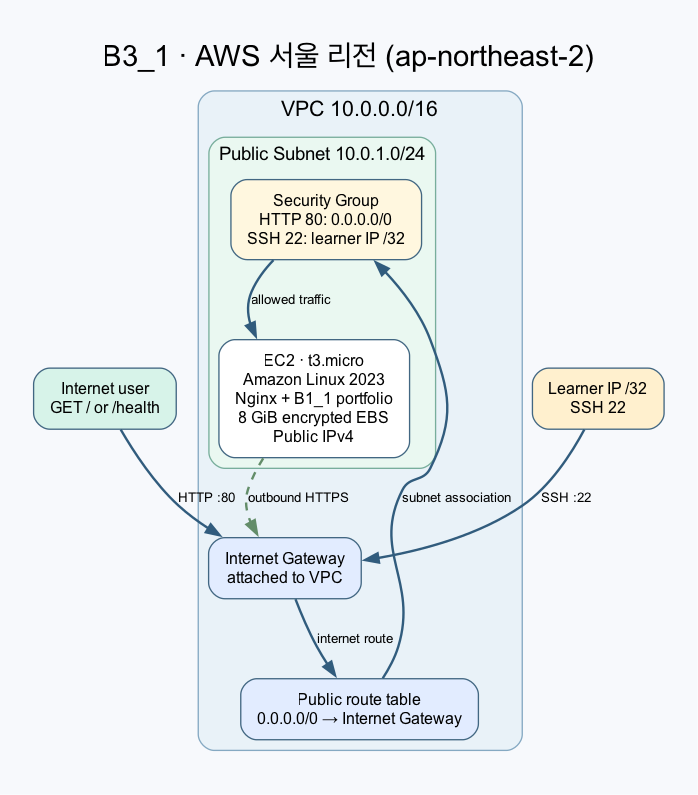
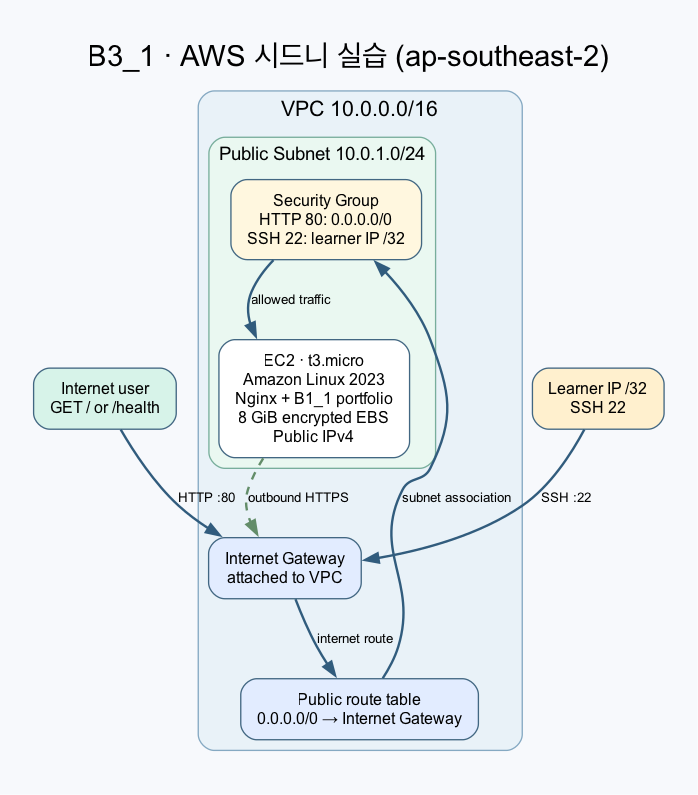
feat: deploy and verify B3_1 in Sydney with cleanup evidence

Changed region(s): [[0.1203, 0.0302, 0.8725, 0.0906]]

diff --git a/B3_1/docs/iam-plan.md b/B3_1/docs/iam-plan.md
@@ -1,25 +1,25 @@
-# B3_1 IAM 최소 권한 적용 계획
+# B3_1 IAM 권한 적용과 실습 기록
 
-**현재 상태:** AWS CLI 임시 인증은 완료했습니다. 현재 세션은 계정 기본 `AccountFullAccessRole`이지만, 서울 리전 API가 AWS 조직 정책(SCP)에 의해 거부되어 실습용 IAM Role은 생성하지 않았습니다. 신뢰·권한 정책은 `infrastructure/iam/`에 준비했고, 실제 적용과 권한 검증은 남아 있습니다. 배포 전 검사도 이 제한을 발견하면 중단하도록 했습니다.
+**2026-10-21 시드니 실습:** 계정 기본 `AccountFullAccessRole`로 전용 역할 두 개를 생성하고 EC2 키페어를 준비했습니다. 실제 CloudFormation 배포·검증·스택 삭제는 **`B3_1OperatorRole`**의 임시 세션으로 실행했습니다. 루트 계정을 사용하지 않았고 실습 역할에는 `AdministratorAccess`를 연결하지 않았습니다. 실습 종료 후 전용 역할 두 개와 키페어를 삭제했습니다.
 
 ## 역할 분리
 
-1. **실습자 접근 주체:** IAM Identity Center 사용자 또는 전용 IAM 사용자 `b3-lab-user`. 루트 계정으로 실습하지 않습니다. `AdministratorAccess`를 연결하지 않습니다.
-2. **CloudFormation 실행 역할:** `B3_1CloudFormationRole`. 신뢰 정책의 Principal은 `cloudformation.amazonaws.com`만 허용합니다. 역할 권한은 이 템플릿에 있는 EC2/VPC 작업과 서울 리전으로 제한합니다. 정책 파일은 `infrastructure/iam/cloudformation-*.json`이며 관리자가 `scripts/bootstrap-iam.sh`로 적용할 수 있습니다.
-3. **실습자 권한:** `b3-1` 스택의 CloudFormation 생성·조회·업데이트·삭제, 해당 실행 역할에 대한 `iam:PassRole`, EC2/VPC 구성 조회에 필요한 권한만 허용합니다. S3·RDS·Lambda와 같은 실습 외 서비스 권한은 부여하지 않습니다. 키페어 생성은 별도 관리자가 수행합니다.
+1. **계정 기본 접근 역할:** `AccountFullAccessRole`은 실습 역할과 SSH 키를 준비할 때만 사용했습니다. CloudFormation 배포 명령에는 사용하지 않았습니다.
+2. **실습 작업 역할:** `B3_1OperatorRole`은 `scripts/bootstrap-operator.sh`가 생성합니다. 시드니 리전의 CloudFormation 배포·조회·삭제, EC2/VPC 조회, 특정 `B3_1CloudFormationRole`을 CloudFormation에 전달하는 `iam:PassRole`만 허용합니다. S3·RDS·Lambda·IAM 관리 권한은 없습니다.
+3. **CloudFormation 실행 역할:** `B3_1CloudFormationRole`은 CloudFormation 서비스만 맡을 수 있습니다. 정책은 시드니 리전의 EC2/VPC 구성 작업과 Amazon Linux 공용 AMI 파라미터 조회만 허용합니다. `scripts/bootstrap-iam.sh`와 `infrastructure/iam/`에 정의했습니다.
 
 AWS는 CloudFormation 서비스 역할을 사용하면 실습자에게 EC2 리소스 생성 권한을 직접 줄 필요가 없고, 특정 역할에만 `iam:PassRole`을 허용할 수 있다고 안내합니다. [AWS CloudFormation 최소 권한 가이드](https://docs.aws.amazon.com/prescriptive-guidance/latest/least-privilege-cloudformation/service-roles-for-cloudformation.html)
 
 ## 관리자에게 전달할 점검 목록
 
-- 리전 조건: `ap-northeast-2`만 허용.
-- CloudFormation 스택 범위: `b3-1` 스택 및 이 스택의 change set만 허용.
+- 리전 조건: `ap-southeast-2`만 허용. 과제의 서울 리전 조건은 별개로 미충족.
+- CloudFormation API 작업은 필요한 동사로 제한했지만 리소스는 `*`입니다. 새 스택 ARN이 배포 전에 없고 change set ARN도 실행 중 생성되므로 완전한 스택 단위 제한은 아직 적용하지 않았습니다.
 - `iam:PassRole` 대상: `B3_1CloudFormationRole` 하나만 허용. 전달 대상 서비스는 CloudFormation으로 제한.
 - 실행 역할 서비스 권한: 템플릿에 등장하는 VPC, Subnet, Internet Gateway, Route Table, Security Group, EC2 Instance의 생성·설명·태그·삭제 작업. IAM/S3/RDS 관리 권한은 없음.
 - EC2 인스턴스 크기: 계정 혜택을 확인한 뒤 `t3.micro` 또는 실제 무료 대상 micro로 제한.
 - EC2 보안 그룹: HTTP 80 공개, SSH 22는 사용자 공인 IP `/32`만.
 - 배포 전 IAM Policy Simulator 또는 제한된 테스트 스택으로 동작 확인. 실패한 API 동작만 추가하고 작업 후 불필요한 권한 제거.
 
-현재 실행 역할 정책의 EC2 작업은 필요한 API 동사와 서울 리전으로 제한했지만, 일부 EC2 생성 API의 리소스가 `*`로 남아 있습니다. 실제 IAM 평가 및 CloudFormation 테스트 뒤 가능한 ARN·태그 조건을 추가로 좁혀야 합니다. **이 파일만으로 최소 권한 적용 완료라고 주장하지 않습니다.**
+두 실습 역할은 실제 시드니 배포와 삭제에 사용할 수 있음을 확인했습니다. 다만 CloudFormation 작업 역할과 EC2 실행 역할 정책의 일부 `Resource`가 `*`여서 **완전한 리소스 단위 최소권한이라고 주장하지 않습니다.** 역할에는 AdministratorAccess를 붙이지 않았고 서비스·API·리전·PassRole 대상을 좁혔습니다. 재실습한다면 생성 단계와 삭제 단계의 정책을 나누고, 가능한 ARN·태그 조건을 추가로 제한할 수 있습니다.
 
 CloudFormation 실행 역할은 스택에 연결된 뒤 다른 작업자도 그 역할로 스택을 조작할 수 있으므로, 실행 역할 권한 자체를 좁게 두는 것이 중요합니다. [AWS CloudFormation 서비스 역할 주의사항](https://docs.aws.amazon.com/AWSCloudFormation/latest/UserGuide/using-iam-servicerole.html)

diff --git a/B3_1/docs/troubleshooting.md b/B3_1/docs/troubleshooting.md
@@ -8,30 +8,27 @@
 | 가설 | CLI 인증 실패 또는 계정의 선택 리전이 서울이 아닌 상태에서 AWS 조직 정책이 서울 API를 차단함. |
 | 검증 | `aws sts get-caller-identity --profile b3-lab`은 성공해 임시 역할 세션임을 확인함. 같은 템플릿의 `ValidateTemplate`과 `t3.micro` 조회는 시드니(`ap-southeast-2`)에서 성공함. 따라서 템플릿 구문이나 CLI 인증보다 계정 리전 정책이 원인임을 확인함. AWS 공식 문서도 이 유형의 새 프로젝트가 한국 주소에는 시드니를 선택 리전으로 할당한다고 설명함. |
 | 조치 | 서울 리전에서 자원을 생성하지 않고 중단함. 현재 무료 프로젝트의 고정 리전을 임의로 우회하지 않았음. 서울 리전 사용이 가능한 별도 계정 또는 계정의 고급 기능 전환 여부는 사용자 결정이 필요함. |
-| 결과 | 원인 확인. **서울 배포, SSH, 외부 HTTP는 미실행·미검증.** 시드니에서 템플릿 검증만 성공했으며 AWS 리소스는 생성하지 않음. |
+| 결과 | 서울 리전은 계속 차단되어 **과제 리전 조건 미충족**. 학습자 요청으로 시드니에서 별도 실습을 진행함. |
 | 재발 방지 | 배포 전에 반드시 대상 리전으로 `ValidateTemplate`과 EC2 조회를 실행해 계정 리전 정책을 확인하도록 README에 기록함. |
 
 근거: [AWS 프로젝트 리전 안내](https://docs.aws.amazon.com/accounts/latest/reference/project-regions.html), [AWS 프로젝트 SCP 안내](https://docs.aws.amazon.com/accounts/latest/reference/scps-and-rcps-for-projects.html). `AccessDenied` 출력에는 계정·조직 식별자가 포함되어 있으므로 공개 저장소에는 원문 전체를 넣지 않았습니다.
 
-## 실제 네트워크/권한 오류가 발생하면 아래에 추가
+## 실제 장애: 보안 그룹 설명의 허용되지 않는 문자
 
-아래 항목은 예시가 아닌 **실행할 때 채우는 템플릿**입니다. 임의의 성공 결과를 적지 마세요.
+| 단계 | 기록 |
+| --- | --- |
+| 증상 | 2026-10-21 첫 시드니 CloudFormation 배포에서 `WebSecurityGroup`이 `CREATE_FAILED`가 되었고 스택이 `ROLLBACK_COMPLETE`로 종료됨. |
+| 가설 | `SecurityGroupIngress.Description` 값에 EC2가 허용하지 않는 문자가 포함됨. |
+| 검증 | `describe-stack-events`의 `Invalid rule description` 오류와 허용 문자 목록을 확인함. 템플릿의 `SSH from the learner's IPv4 only`에 있는 작은따옴표가 허용 목록에 없었음. |
+| 조치 | 설명을 `SSH from the learner IPv4 only`로 바꿈. 실패 스택 삭제 완료를 기다린 뒤 같은 템플릿으로 재배포함. |
+| 결과 | `WebSecurityGroup`, 전체 `b3-1` 스택이 `CREATE_COMPLETE`. SSH 접속과 외부 `/health` HTTP 200/`OK` 확인. 실제 증빙은 [`evidence/verification.txt`](evidence/verification.txt), [`evidence/external-access.png`](evidence/external-access.png). |
+| 재발 방지 | 보안 그룹 설명에는 영문·숫자·EC2 허용 기호만 쓰고, CloudFormation 실패 시 Events의 첫 `CREATE_FAILED` 원인을 확인함. `ValidateTemplate` 통과만으로 서비스별 값 제약까지 검증되지는 않음을 배포 전 점검에 추가함. |
 
-```text
-날짜/시간:
-증상: (명령, HTTP 상태, SSH 오류 메시지)
-가설: (예: SSH 소스 IP 불일치, 0.0.0.0/0 경로 누락, Nginx 미실행)
-검증: (CloudFormation Events, SG 규칙, Route Table, cloud-init-output.log, curl 결과)
-조치:
-결과: (전/후 명령 출력 또는 스크린샷 경로)
-재발 방지:
-```
-
-### 확인 명령 예시
+### 실제 사용한 확인 명령
 
 ```bash
-aws cloudformation describe-stack-events --profile b3-lab --region ap-northeast-2 --stack-name b3-1
-ssh -i /path/to/key.pem ec2-user@<PUBLIC_IP> 'sudo systemctl status nginx --no-pager'
-ssh -i /path/to/key.pem ec2-user@<PUBLIC_IP> 'sudo tail -n 80 /var/log/cloud-init-output.log'
-curl -v http://<PUBLIC_IP>/health
+aws cloudformation describe-stack-events --profile b3-operator --region ap-southeast-2 --stack-name b3-1
+curl -i http://15.134.214.202/health
 ```
+
+실습 후 스택과 EC2는 삭제했으므로 위 과거 공개 URL은 더 이상 접속되지 않습니다.

diff --git a/B3_1/docs/cleanup-checklist.md b/B3_1/docs/cleanup-checklist.md
@@ -1,19 +1,22 @@
 # B3_1 리소스 정리 체크리스트
 
-**현재 상태 (2026-10-21): AWS CLI 인증 후 서울 리전 호출이 SCP에서 거부됨을 확인했습니다. 이 프로젝트의 리소스는 생성하지 않았습니다. 따라서 실습 후 삭제 완료라고 표시하지 않습니다.**
+**실습 날짜:** 2026-10-21, 시드니 리전(`ap-southeast-2`). 외부 접속 증빙을 저장한 뒤 `./scripts/cleanup.sh b3-operator`로 CloudFormation 스택을 삭제했습니다. 아래 조회는 삭제 명령 완료 후 수행했습니다.
 
-실제 배포 후 증빙을 저장하고 실습을 마칠 때 `./scripts/cleanup.sh b3-lab`을 실행합니다. 그 다음 서울 리전에서 아래를 확인하고 날짜, 리소스 ID, 확인 명령 또는 화면을 기록합니다.
-
-| 확인 항목 | 상태 | 확인 근거 |
+| 확인 항목 | 상태 | 실제 확인 근거 |
 | --- | --- | --- |
-| CloudFormation `b3-1` 스택 | 미생성 | 배포 후 삭제 시 `DELETE_COMPLETE` 또는 스택 없음 확인 |
-| EC2 인스턴스 | 미생성 | `Terminated` 또는 목록에서 제거 확인 |
-| EBS 루트 볼륨과 미사용 볼륨 | 미생성 | 인스턴스의 볼륨 ID가 삭제됐는지 확인 |
-| 퍼블릭 IPv4 / Elastic IP | 미생성 | 자동 공인 IP 해제, 할당한 EIP가 있다면 `Release` 확인 |
-| Internet Gateway | 미생성 | VPC에서 분리 및 삭제 확인 |
-| Public Subnet / Route Table / Security Group | 미생성 | 스택 삭제 후 잔존 리소스 확인 |
-| VPC | 미생성 | 프로젝트 VPC 삭제 확인 |
-| NAT Gateway / ELB·ALB / RDS | 사용하지 않음 | 프로젝트에서는 생성하지 않음. 계정에서 별도 생성 여부 확인 |
-| Billing Dashboard | 미확인 | 실습 후 사용량·청구 항목 확인 |
+| CloudFormation `b3-1` 스택 | 삭제 완료 | `describe-stacks` → `Stack with id b3-1 does not exist` |
+| EC2 `i-06ec8cc985b2829f4` | 종료 완료 | `describe-instances` → `terminated` |
+| 루트 EBS `vol-008ac4ec2e5550c68` | 삭제 완료 | `describe-volumes` → `InvalidVolume.NotFound` |
+| 자동 공인 IPv4 `15.134.214.202` | 인스턴스 종료로 해제 | EC2 `terminated`; 별도 Elastic IP를 할당하지 않음 |
+| Elastic IP | 사용하지 않음 | 프로젝트 태그 `B3_1`의 `describe-addresses` 결과 `[]` |
+| IGW `igw-09a9a4f5ecbf01e2f` | 삭제 완료 | `describe-internet-gateways` → `InvalidInternetGatewayID.NotFound` |
+| Subnet `subnet-0927e2efc6d750f46` | 삭제 완료 | `describe-subnets` → `InvalidSubnetID.NotFound` |
+| Route Table `rtb-0eaa52e51d8191361` | 삭제 완료 | `describe-route-tables` → `InvalidRouteTableID.NotFound` |
+| SG `sg-04bda3f717d5c8265` | 삭제 완료 | `describe-security-groups` → `InvalidGroup.NotFound` |
+| VPC `vpc-0f1a61c468d16a152` | 삭제 완료 | `describe-vpcs` → `InvalidVpcID.NotFound` |
+| EC2 키페어 `B3_1-20261021` | 삭제 완료 | `delete-key-pair` → `Return: true`, 재조회 → `InvalidKeyPair.NotFound`; 로컬 `.pem`도 삭제 |
+| IAM 실습 역할 2개 | 삭제 완료 | `B3_1OperatorRole`·`B3_1CloudFormationRole` 재조회 → `NoSuchEntity` |
+| NAT Gateway / ELB·ALB / RDS | 생성하지 않음 | CloudFormation 템플릿과 스택 리소스 목록에 없음 |
+| Billing Dashboard | 청구 확정 전 | AWS 사용량·청구 정보에는 반영 지연이 있을 수 있음. 무료 플랜과 잔여 크레딧은 배포 전에 확인함. |
 
-CloudFormation 삭제가 실패하면 `describe-stack-events`로 어떤 리소스가 남았는지 확인하고, 종속 리소스를 해결한 뒤 다시 삭제합니다. 체크리스트에 실제 확인 결과를 남길 때까지 완료로 표시하지 않습니다.
+이 표는 **B3_1 실습으로 만든 리소스**를 추적합니다. 계정의 다른 프로젝트가 만든 리소스는 삭제하지 않았습니다. 스크린샷의 과거 URL은 정리 후 더 이상 활성 서비스가 아닙니다.

diff --git a/B3_1/docs/evidence/README.md b/B3_1/docs/evidence/README.md
@@ -1,5 +1,5 @@
 # 외부 접속 증빙
 
-AWS CLI 인증 후 서울 리전 호출이 계정의 서비스 제어 정책(SCP)에서 거부됨을 확인했습니다. 실제 배포 전이라 접속 스크린샷은 생성되지 않았습니다. 이 폴더에 제출용 가짜 이미지를 넣지 않습니다.
+2026-10-21 시드니 리전(`ap-southeast-2`)에서 실제 배포하고, AWS CloudShell에서 `curl -i --max-time 10 http://15.134.214.202/health`를 실행해 `HTTP/1.1 200 OK`와 본문 `OK`를 확인했습니다. 실제 화면은 [`external-access.png`](external-access.png), 로컬 검증 스크립트의 출력은 [`verification.txt`](verification.txt)입니다.
 
-배포 후 `./scripts/verify.sh b3-lab /path/to/key.pem`으로 실제 명령 결과를 확인하고, 브라우저에서 `http://<PUBLIC_IP>/health`를 연 화면 또는 외부 컴퓨터의 `curl -i` 결과를 캡처해 `external-access.png`로 저장하세요. URL/IP와 캡처 일시를 `README.md`의 배포 결과 표에 기록하세요.
+검증 뒤 과제의 정리 조건에 따라 EC2와 VPC를 삭제했습니다. 이 URL은 실습 당시의 접속 정보이며 현재 활성 웹사이트가 아닙니다. 과제에 명시된 서울 리전과 다르므로 제출 전 담당자의 허용 여부를 확인해야 합니다.
